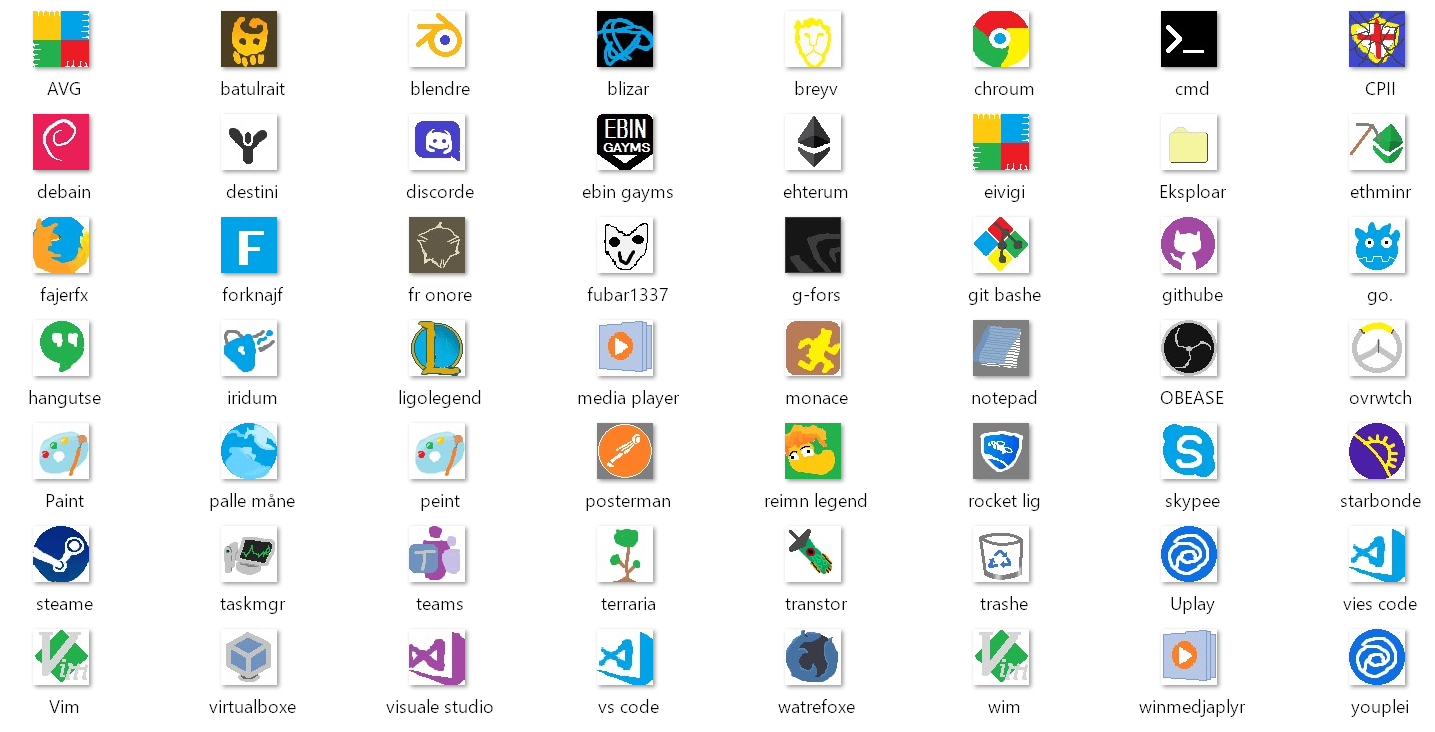
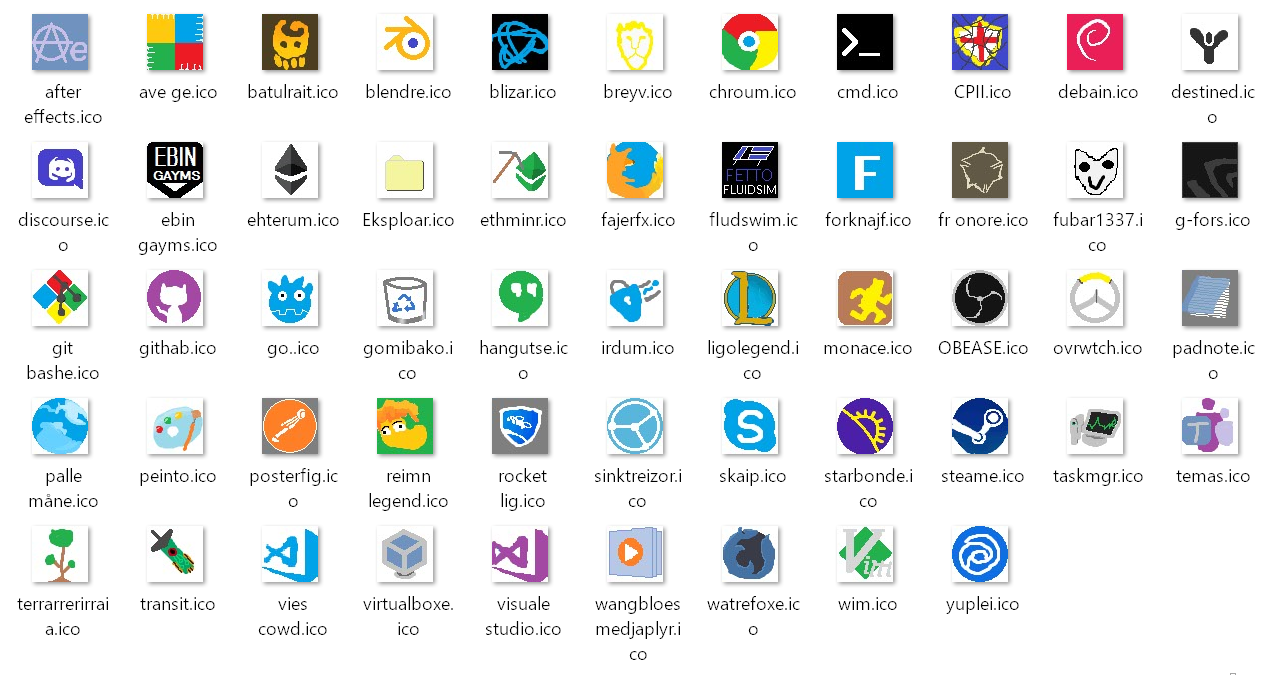
Updated MWIT image
Also updated icon count

Changed region(s): [[0.0, 0.0, 0.8913, 0.9956], [0.922, 0.0, 1.0, 0.9956], [0.0, 0.5911, 0.0922, 0.9956]]

diff --git a/templates/projects/index.html b/templates/projects/index.html
@@ -34,7 +34,7 @@
         <div class="card-name">Maximalist Windows Icon Theme (MWIT)</div>
     </a>
     <p>
-        An icon pack for Windows that I designed using Microsoft Paint. It features 50 stylish and distinguished icons
+        An icon pack for Windows that I designed using Microsoft Paint. It features 53 stylish and distinguished icons
         for popular programs such as Visual Studio, Microsoft Teams, Steam, Epic Games, and more. If you think a program
         is missing, tell me and I'll design an icon.
     </p>
